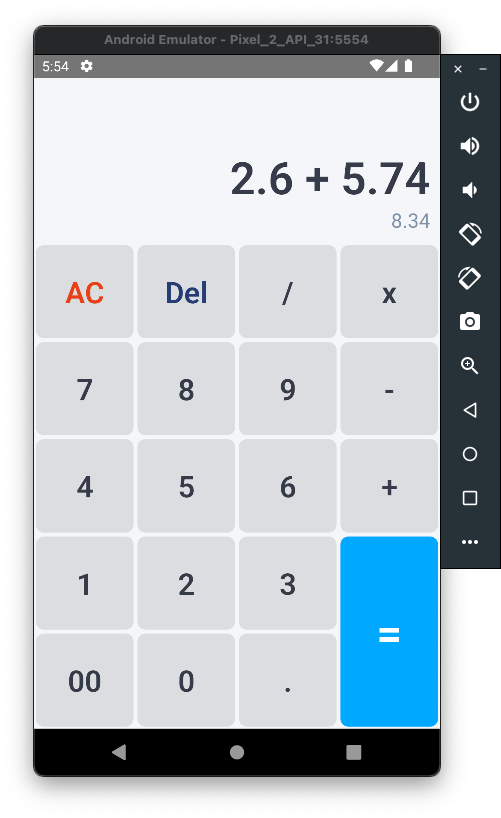
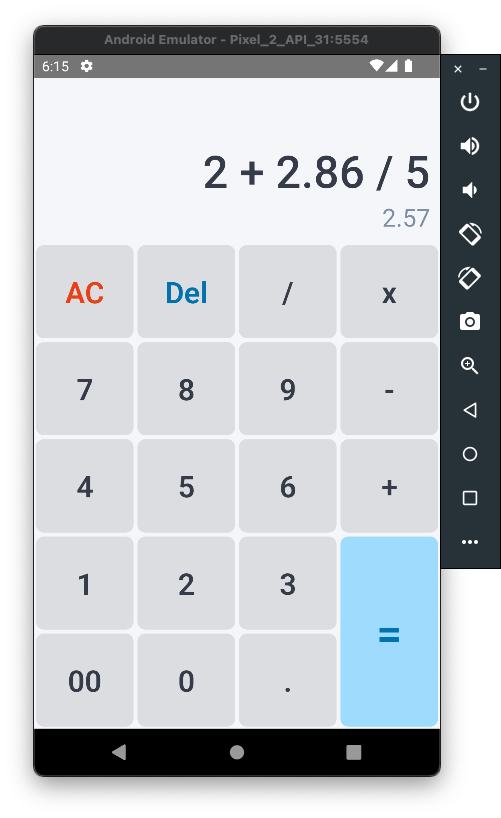
Up: customize style, readme

diff --git a/src/components/Display.tsx b/src/components/Display.tsx
@@ -9,17 +9,17 @@ type Props = {
 };
 
 const Display = ({previews, answer, showAnswerPreview}: Props) => {
-  let fontStyle: StyleProp<TextStyle> = styles.textXxl;
+  let textStyle: StyleProp<TextStyle> = styles.textXxl;
   const previewLen = previews?.join('').length;
 
   if (previewLen >= 11 && previewLen < 14) {
-    fontStyle = styles.textXl;
+    textStyle = styles.textXl;
   }
   if (previewLen >= 14 && previewLen < 75) {
-    fontStyle = styles.textMd;
+    textStyle = styles.textMd;
   }
   if (previewLen >= 75) {
-    fontStyle = styles.textSm;
+    textStyle = styles.textSm;
   }
 
   return (
@@ -30,7 +30,7 @@ const Display = ({previews, answer, showAnswerPreview}: Props) => {
             styles.itemRight,
             !showAnswerPreview
               ? [styles.preview, styles.textMd]
-              : [styles.answer, fontStyle],
+              : [styles.answer, textStyle, styles.fontXl],
           ]}>
           {previews?.join(' ')}
           {!showAnswerPreview && ' ='}
@@ -39,9 +39,10 @@ const Display = ({previews, answer, showAnswerPreview}: Props) => {
           style={[
             styles.itemRight,
             showAnswerPreview
-              ? styles.ansPreview
+              ? [styles.ansPreview, styles.textMd, styles.fontMd]
               : [
                   styles.answer,
+                  styles.fontXl,
                   answer.toString().length < 15
                     ? styles.textXxl
                     : styles.textXl,
@@ -65,7 +66,6 @@ const styles = StyleSheet.create({
     textAlign: 'right',
   },
   preview: {
-    fontWeight: '400',
     color: '#7f8fa6',
   },
   textSm: {
@@ -80,13 +80,17 @@ const styles = StyleSheet.create({
   textXxl: {
     fontSize: 45,
   },
-  ansPreview: {
+  fontMd: {
     fontWeight: '400',
+  },
+  fontXl: {
+    fontWeight: '500',
+  },
+  ansPreview: {
     color: '#7f8fa6',
-    fontSize: 20,
   },
   answer: {
-    fontWeight: '600',
+    // fontWeight: '600',
     color: '#353b48',
   },
 });

diff --git a/src/components/Keyboard/Btn.tsx b/src/components/Keyboard/Btn.tsx
@@ -60,13 +60,13 @@ const styles = StyleSheet.create({
     color: '#e84118',
   },
   delText: {
-    color: '#273c75',
+    color: '#0073af',
   },
   sumBg: {
-    backgroundColor: '#00a8ff',
+    backgroundColor: '#00a8ff59',
   },
   sumText: {
-    color: '#fff',
+    color: '#0073af',
     fontSize: 45,
   },
 });
